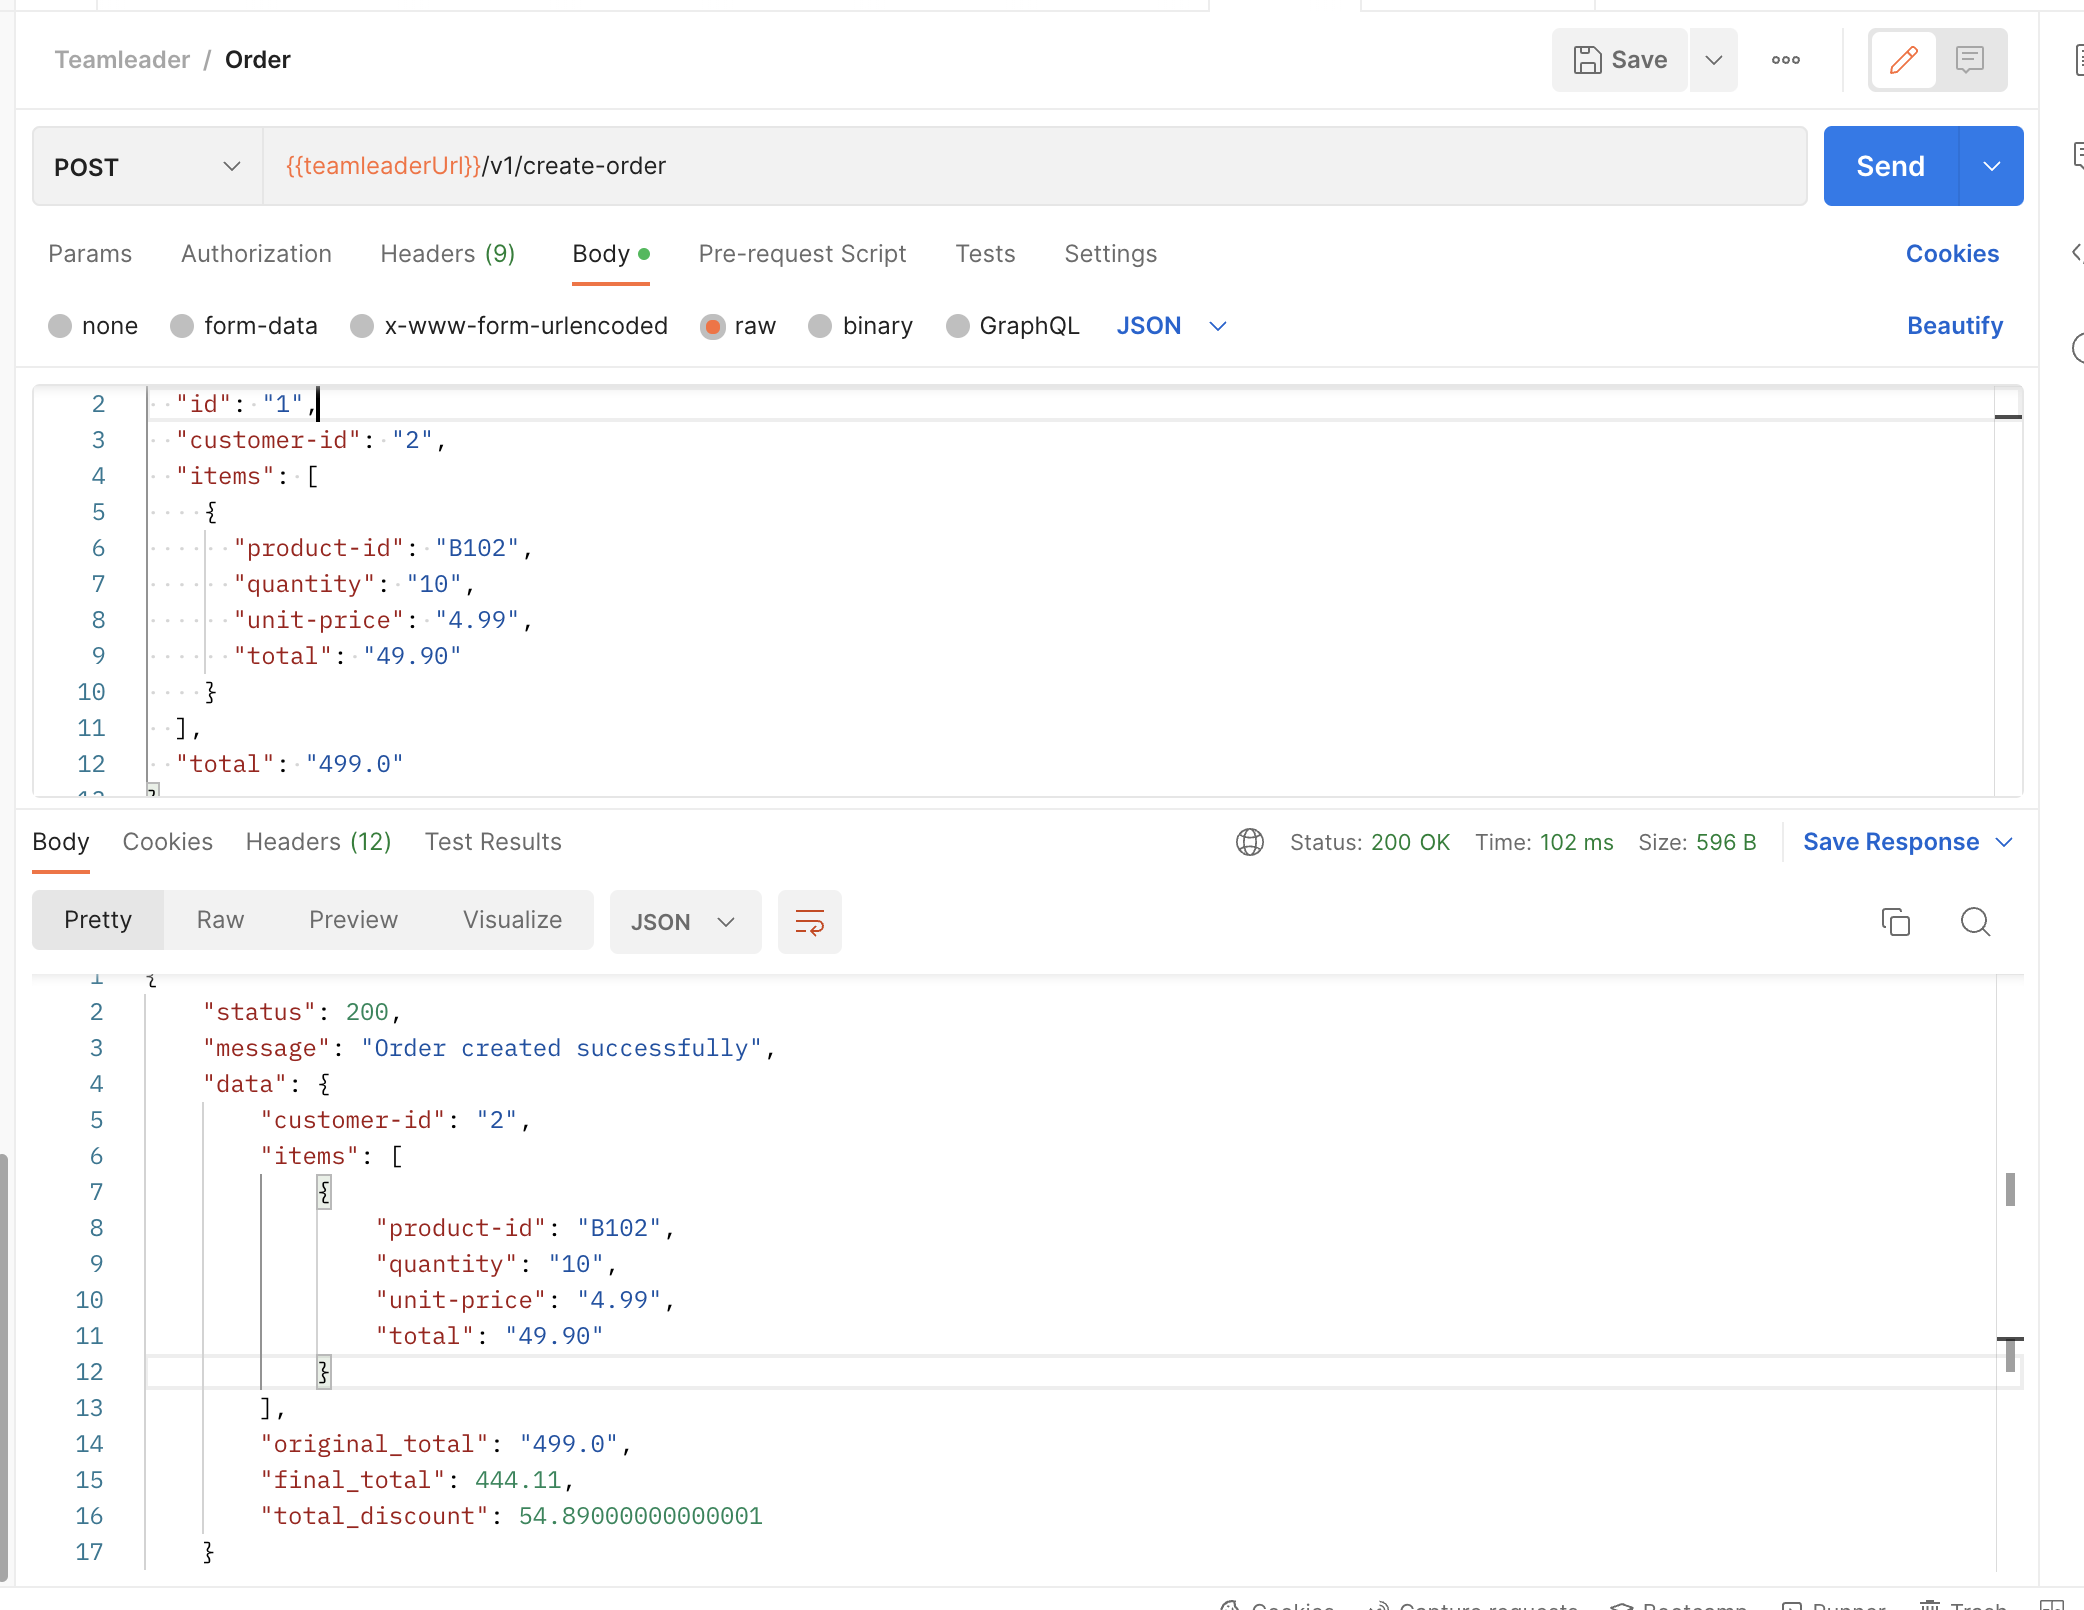
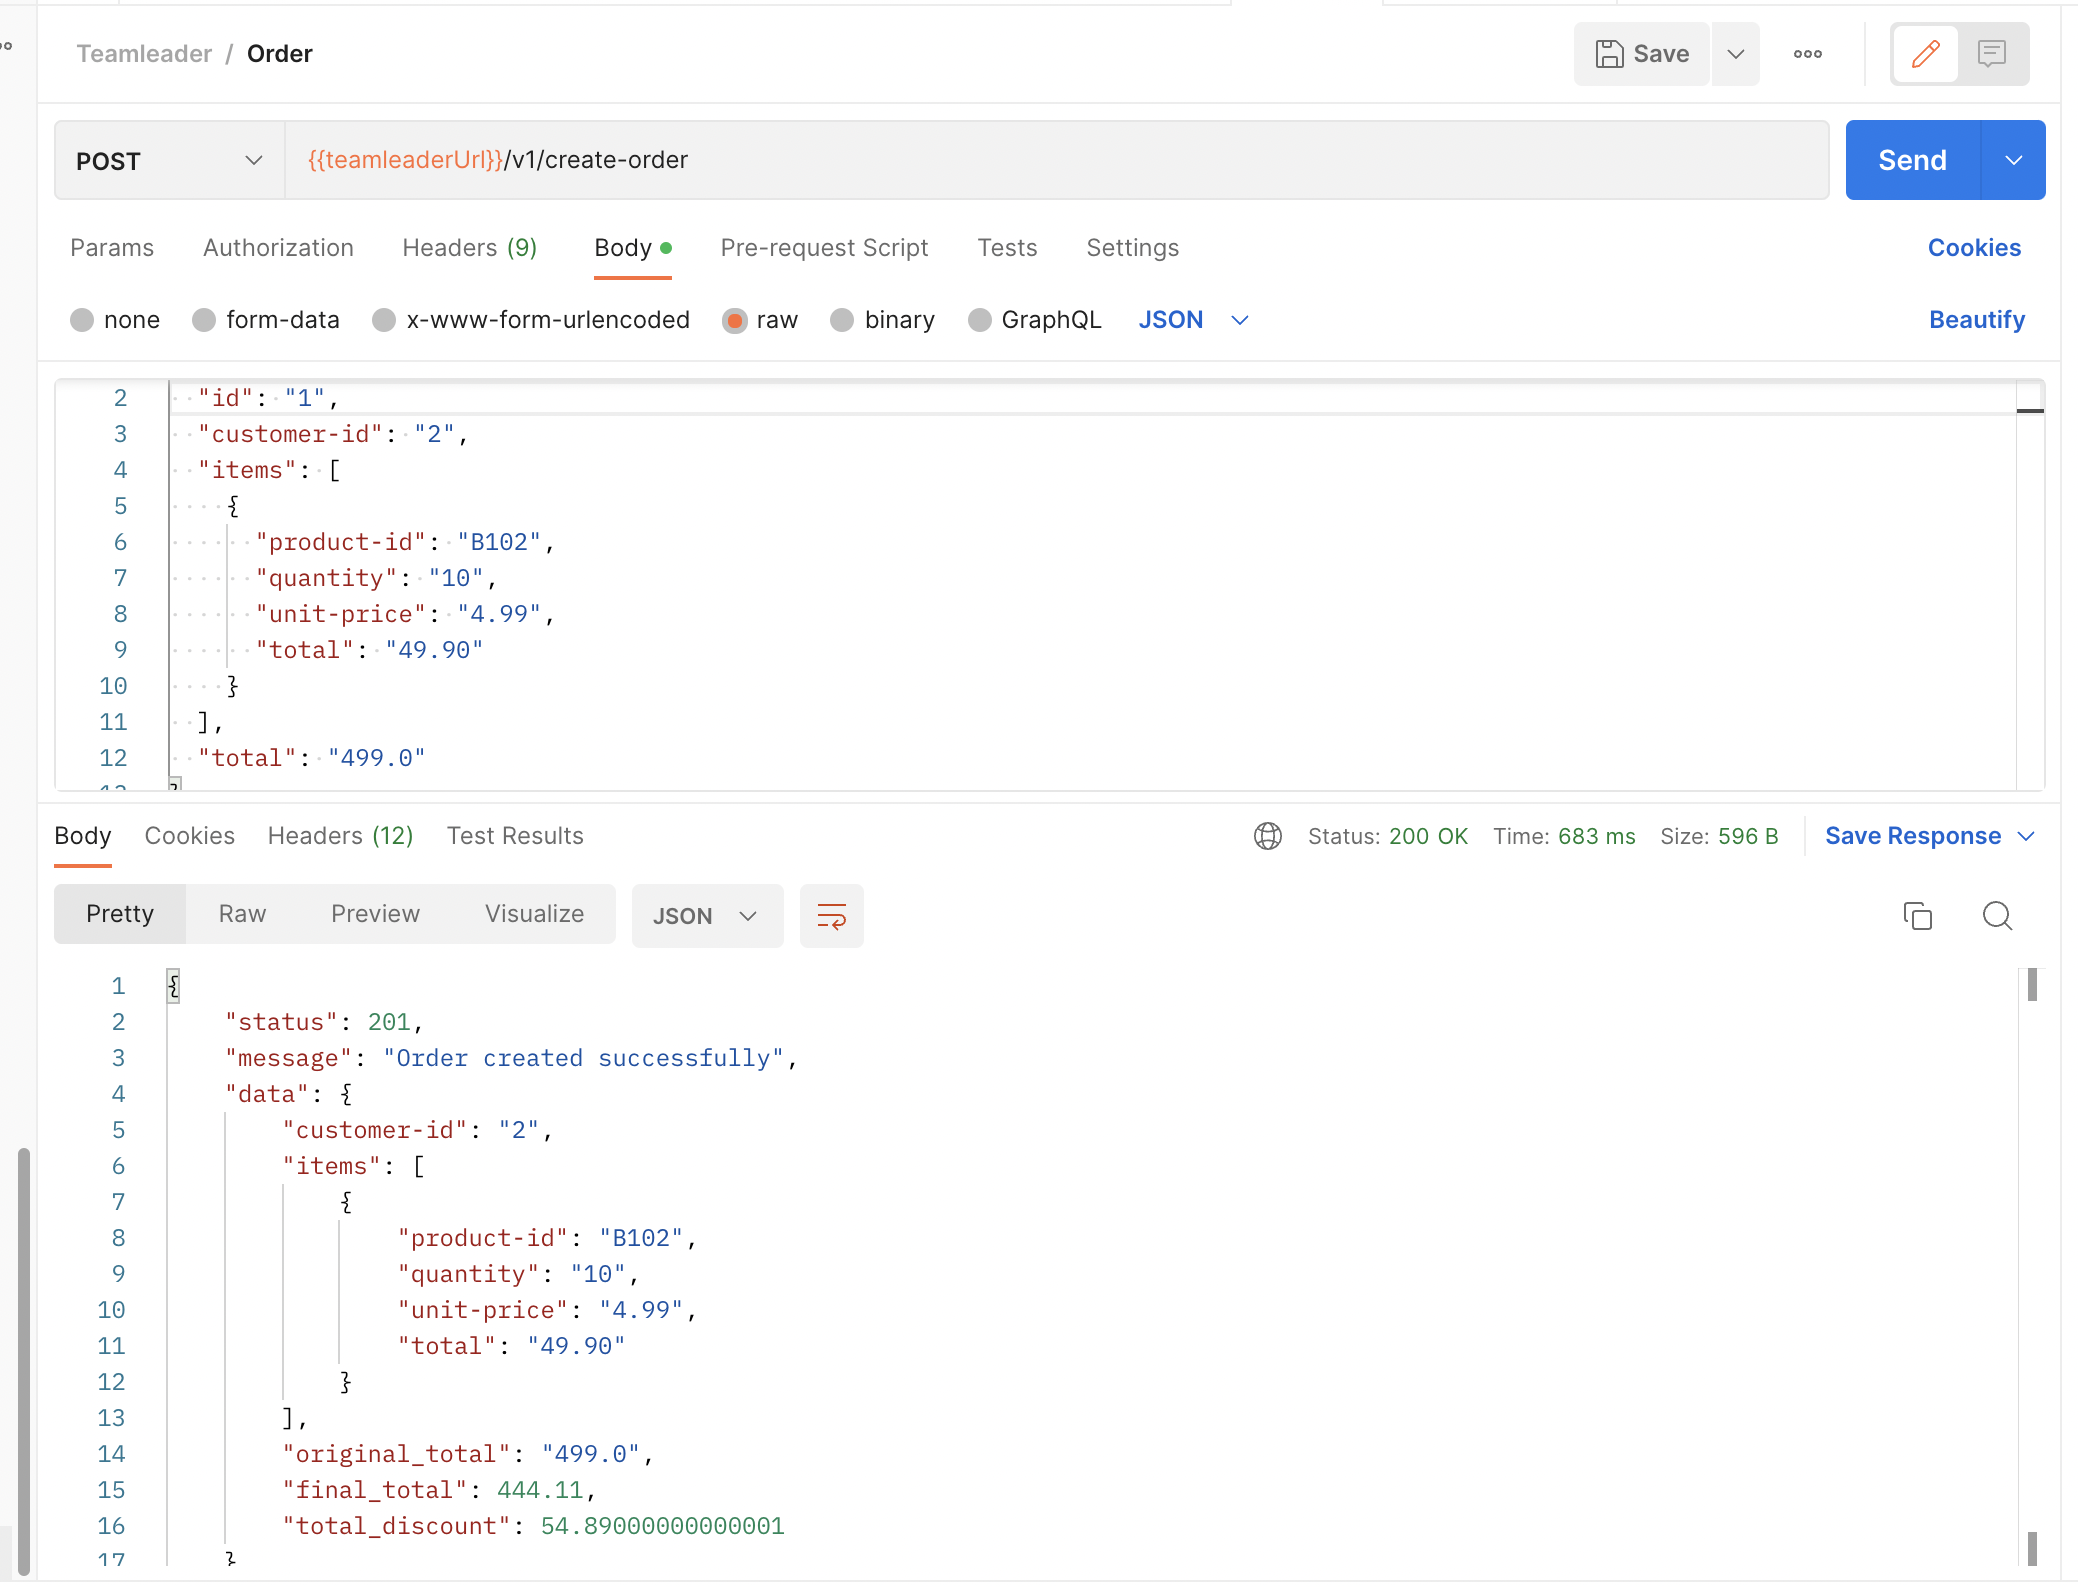
update status code on order  and readme file

diff --git a/app/Http/Controllers/OrderController.php b/app/Http/Controllers/OrderController.php
@@ -58,7 +58,7 @@ class OrderController extends Controller
             $customer_update = $customer->update(['revenue' => $revenue]);
 
             return response()->json([
-                'status' => 200,
+                'status' => 201,
                 'message' => 'Order created successfully',
                 'data' => $order_array
             ]);

diff --git a/README.md b/README.md
@@ -5,15 +5,15 @@ This CLI program is built on the LARAVEL FRAMEWORK. The program is built to impl
 
 <p> The program has three (3) endpoints </p>
 
-<li> Create customer - Create customer endpoint </li>
+<li> Create customer - Create customer endpoint </li> <br>
 
 ![Screenshot for Create customer endpoint](https://github.com/LarrySul/shopping-cart-discount-app/blob/feature/public/screenshots/customer.png)
 
-<li> Create product - Create product endpoint </li>
+<li> Create product - Create product endpoint </li> <br>
 
 ![Screenshot for Create product endpoint ](https://github.com/LarrySul/shopping-cart-discount-app/blob/feature/public/screenshots/product.png)
 
-<li> Create order - The endpoint calculate discount, create order and update customer revenue column on customer table  </li>
+<li> Create order - The endpoint calculate discount, create order and update customer revenue column on customer table  </li> <br>
 
 ![Screenshot for calculating discount, create order endpoint ](https://github.com/LarrySul/shopping-cart-discount-app/blob/feature/public/screenshots/order.png)
 
